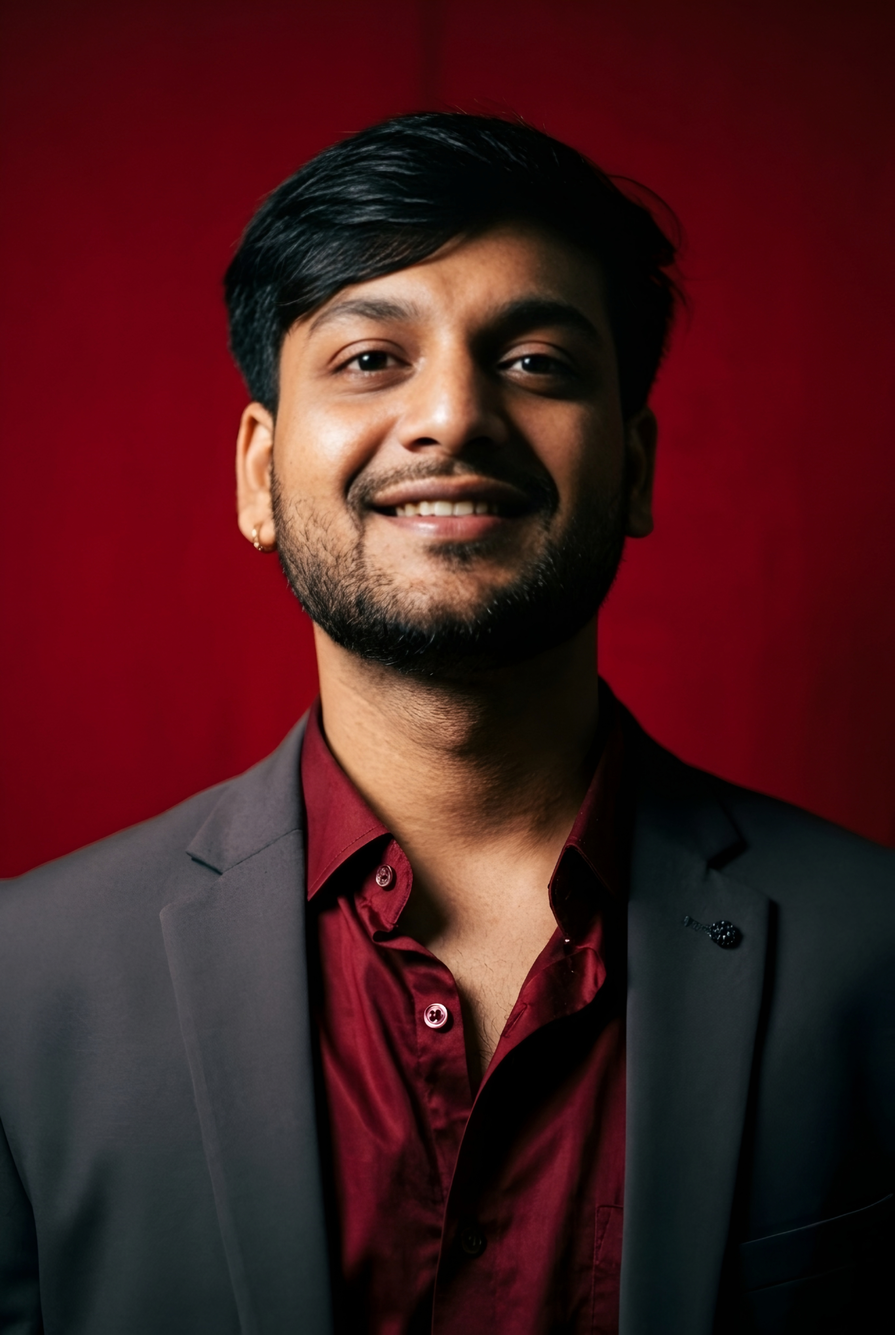
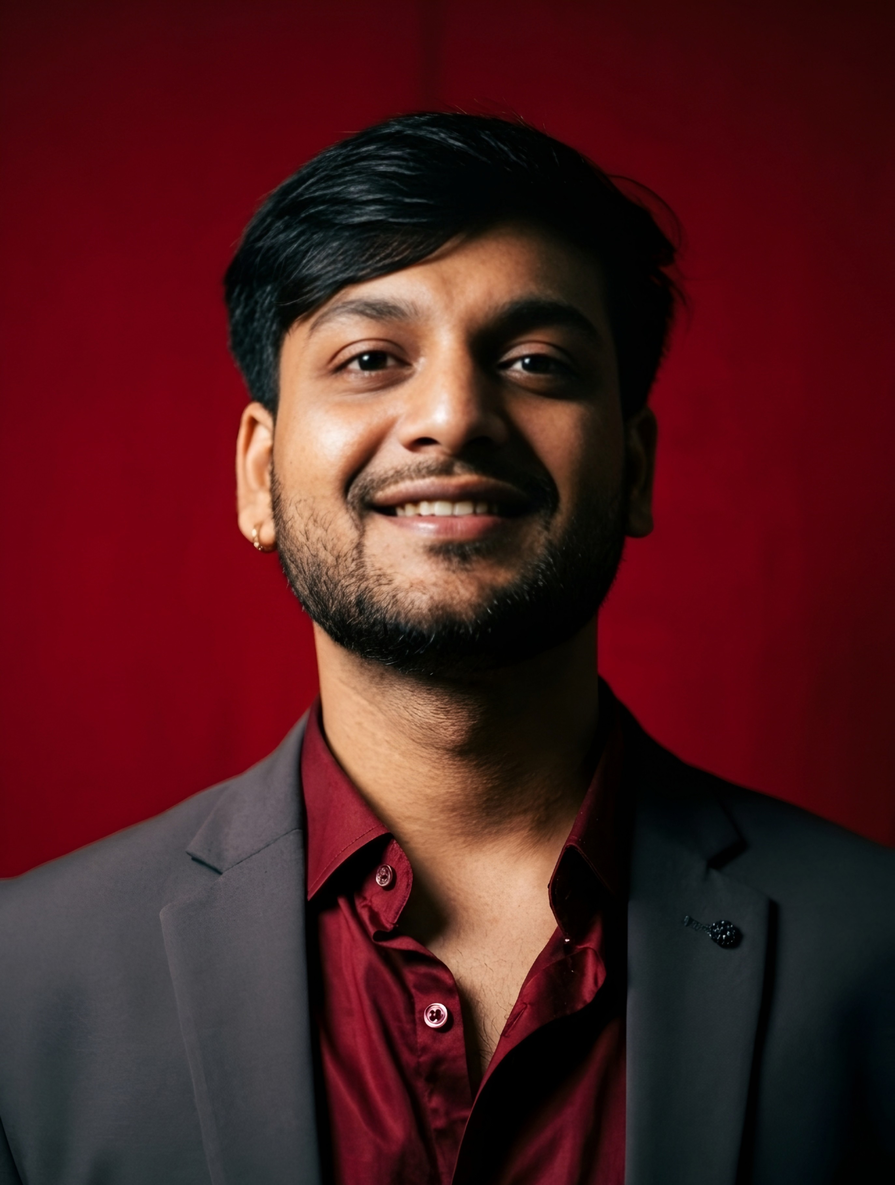
fixing hero page

diff --git a/components/studio/hero-section.tsx b/components/studio/hero-section.tsx
@@ -120,7 +120,7 @@ export const HeroSection = () => {
             priority
             alt={`${SITE.name} — portrait`}
             caption="that's me :)"
-            className="w-full shrink-0 self-center lg:w-auto"
+            className="flex w-full shrink-0 flex-col items-center self-center lg:w-auto"
             size={272}
             src={SITE.profile.studioImage}
             tone="studio"
